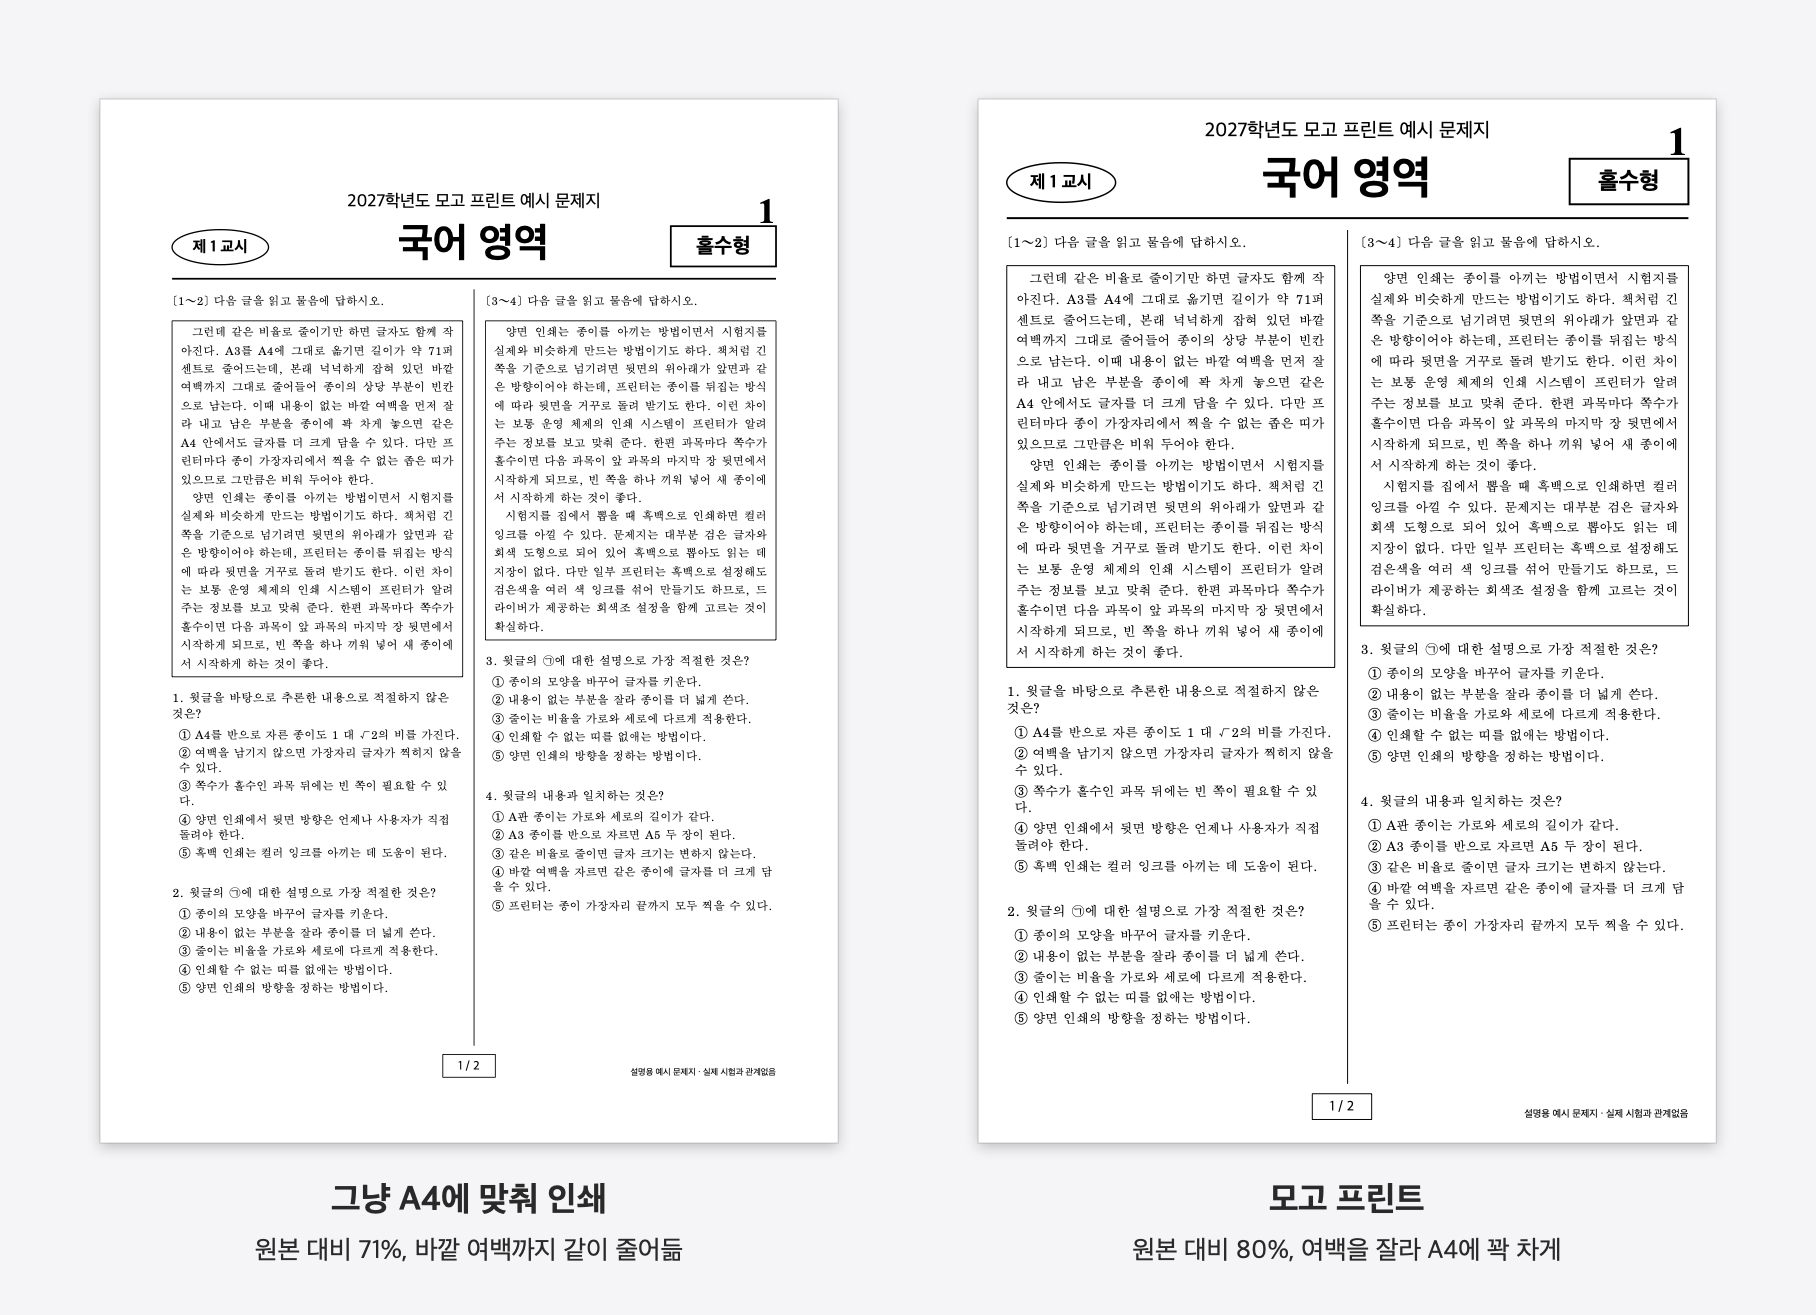
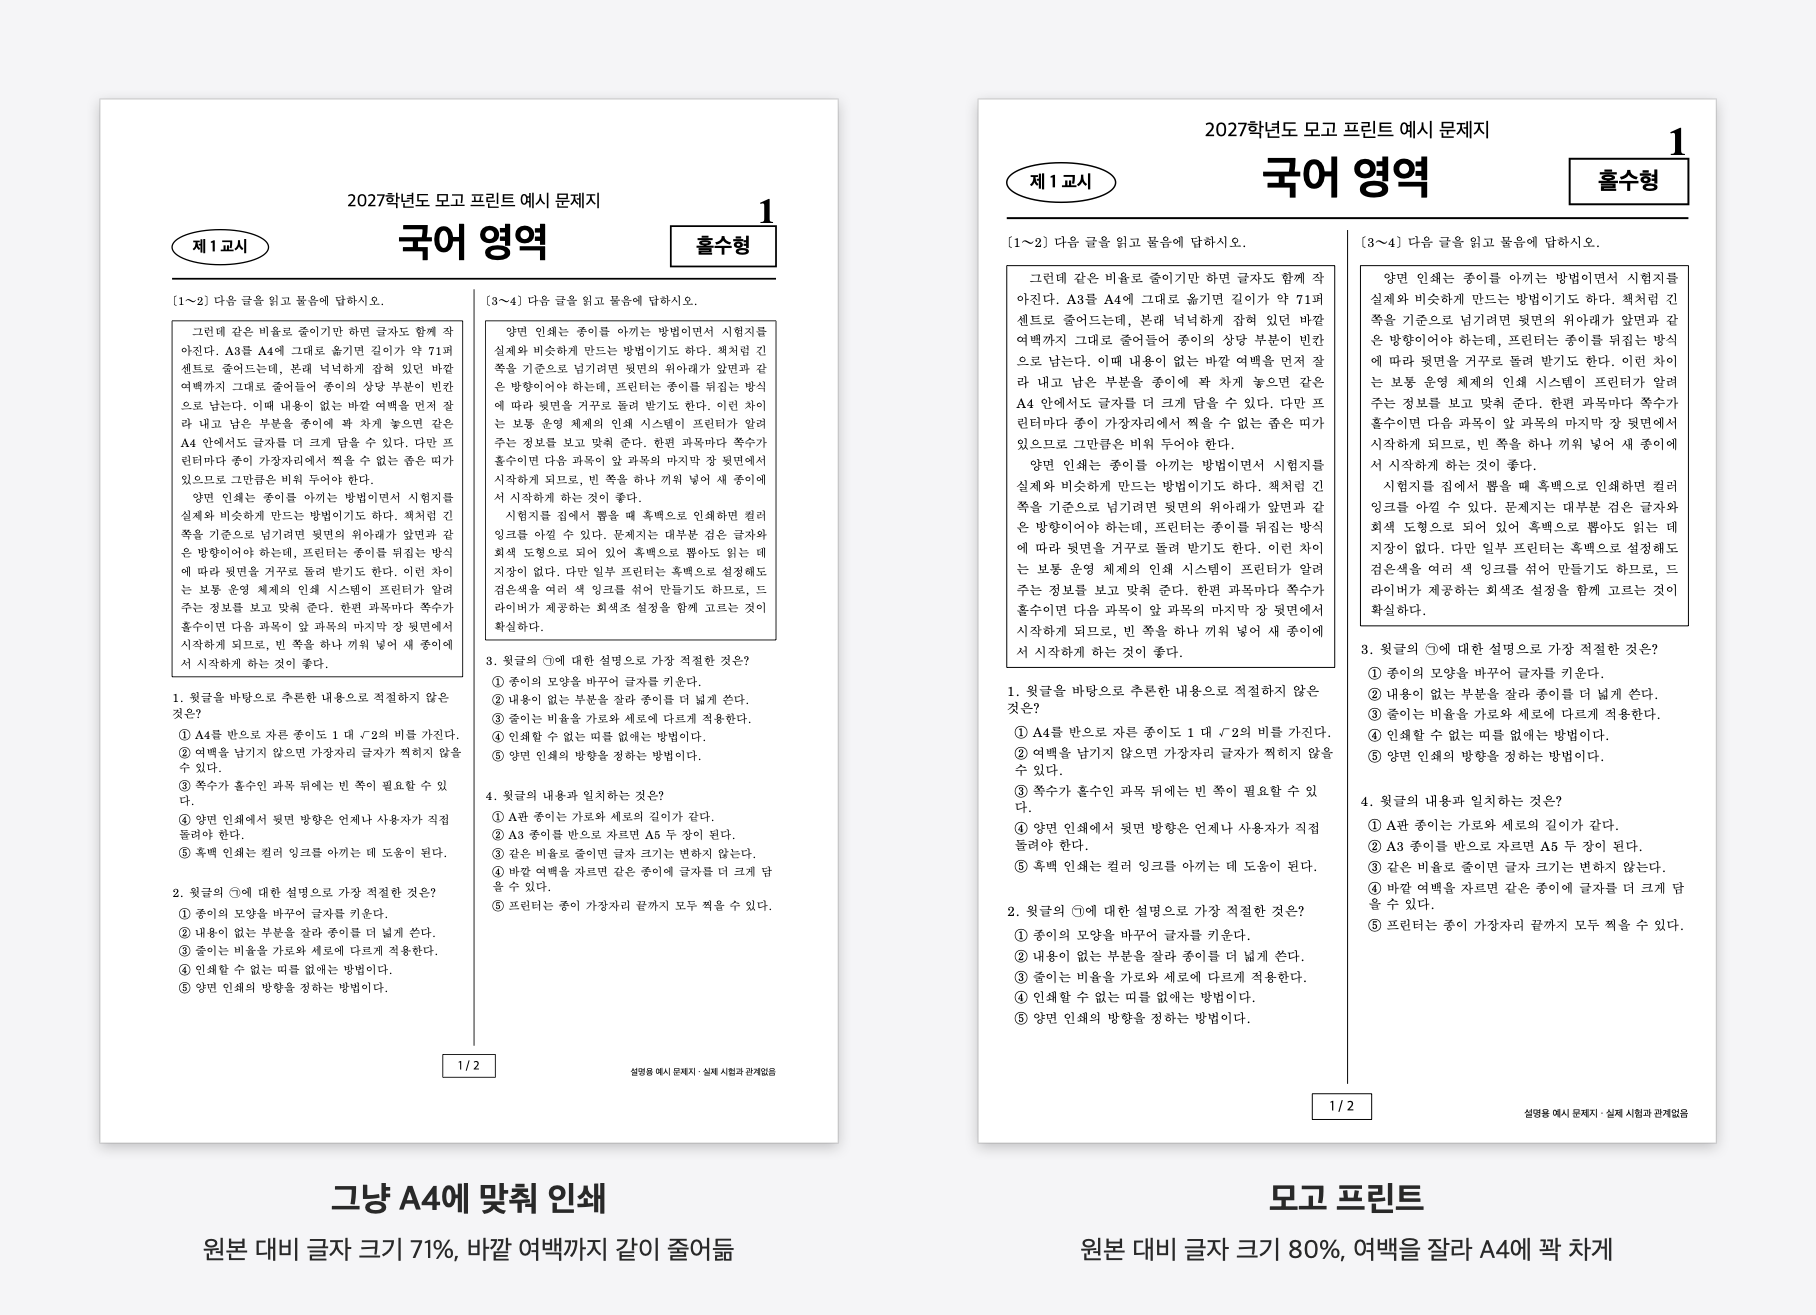
배율 표시를 '원본 대비 글자 크기 80%'로 (사용자 의견)
- 미리보기 위 요약, 인쇄 확인 창, 여백 조정 화면, README 비교 그림 설명
- 실측(300dpi)으로 표시 배율이 결과물의 실제 길이 비율과 같음을 확인

Changed region(s): [[0.5859, 0.9354, 0.8943, 0.9665], [0.0925, 0.9354, 0.4009, 0.9665]]

diff --git a/macos/Sources/MogoPrint/ContentView.swift b/macos/Sources/MogoPrint/ContentView.swift
@@ -235,7 +235,7 @@ struct PreviewPane: View {
         VStack(spacing: 0) {
             HStack(spacing: 10) {
                 if model.outputPageCount > 0 {
-                    Text("A4 \(model.outputPageCount)쪽 · 종이 \(model.sheetCount)장 · 원본 대비 약 \(model.displayScale)%")
+                    Text("A4 \(model.outputPageCount)쪽 · 종이 \(model.sheetCount)장 · 원본 대비 글자 크기 \(model.displayScale)%")
                         .font(.callout)
                 }
                 if model.isWorking { ProgressView().controlSize(.small) }
@@ -331,7 +331,7 @@ struct ManualCropView: View {
                 Button { position += 1 } label: { Image(systemName: "chevron.right") }
                     .disabled(position >= pages.count - 1)
                 Spacer()
-                Text("원본 대비 \(Int((Imposer.scale(for: current, options: model.options) * 100).rounded()))%")
+                Text("원본 대비 글자 크기 \(Int((Imposer.scale(for: current, options: model.options) * 100).rounded()))%")
                     .monospacedDigit()
                     .foregroundStyle(.secondary)
                 Button("원래대로") { reset() }
@@ -680,7 +680,7 @@ struct PrintConfirmView: View {
             Grid(alignment: .leading, horizontalSpacing: 18, verticalSpacing: 8) {
                 row("프린터", s.printer.replacingOccurrences(of: "_", with: " "))
                 row("분량", "A4 \(model.outputPageCount)쪽 · 종이 \(model.sheetCount)장 × \(s.copies)부")
-                row("설정", "\(s.duplex ? "양면 (긴 쪽 넘김)" : "단면") · \(s.grayscale ? "흑백" : "컬러") · 원본 대비 약 \(model.displayScale)%")
+                row("설정", "\(s.duplex ? "양면 (긴 쪽 넘김)" : "단면") · \(s.grayscale ? "흑백" : "컬러") · 원본 대비 글자 크기 \(model.displayScale)%")
                 if model.hasCombinedVariants {
                     row("시험지 형", model.options.variant.rawValue)
                 }

diff --git a/macos/Tools/readme-images/main.swift b/macos/Tools/readme-images/main.swift
@@ -118,8 +118,8 @@ drawSheet(at: left) { c in
     c.drawPDFPage(original)
 }
 drawSheet(at: right) { c in c.drawPDFPage(imposed) }
-label("그냥 A4에 맞춰 인쇄", "원본 대비 \(Int((plainScale * 100).rounded()))%, 바깥 여백까지 같이 줄어듦",
+label("그냥 A4에 맞춰 인쇄", "원본 대비 글자 크기 \(Int((plainScale * 100).rounded()))%, 바깥 여백까지 같이 줄어듦",
       centerX: left.x + sheet.width / 2, y: caption - 34)
-label("모고 프린트", "원본 대비 \(Int((result.sections[0].scale * 100).rounded()))%, 여백을 잘라 A4에 꽉 차게",
+label("모고 프린트", "원본 대비 글자 크기 \(Int((result.sections[0].scale * 100).rounded()))%, 여백을 잘라 A4에 꽉 차게",
       centerX: right.x + sheet.width / 2, y: caption - 34)
 save(ctx, "before-after.png")
